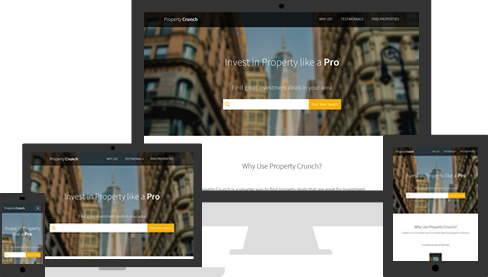
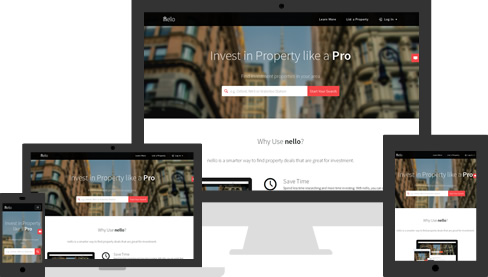
Updated 404 page. Rebranded to  "nello"

diff --git a/property-crunch-frontend/public/assets/css/style.css b/property-crunch-frontend/public/assets/css/style.css
@@ -2782,18 +2782,24 @@ footer.default-footer ul li:last-child {
   margin-bottom: 50px;
 }
 .fact-box blockquote {
-  margin-bottom: 30px;
+  margin-bottom: 40px;
+  text-align: left;
 }
 .fact-box .source-logo {
   width: 100%;
   margin-bottom: 10px;
 }
-@media (min-width: 768px) {
-  .fact-box {
-    margin-bottom: 50px;
+@media (min-width: 992px) and (max-width: 1199px) {
+  .fact-box.first-box blockquote {
+    margin-bottom: 66px;
   }
   .fact-box.second-box blockquote {
-    margin-bottom: 116px;
+    margin-bottom: 143px;
+  }
+}
+@media (min-width: 1200px) {
+  .fact-box.second-box blockquote {
+    margin-bottom: 91px;
   }
 }
 /*===================================================================
@@ -3552,6 +3558,9 @@ footer.default-footer ul li:last-child {
 /*===================================================================
   Pages > Property Details > Profit Calculator
 ====================================================================*/
+.profit-calculator.embedded {
+  background: #e9edeb;
+}
 .profit-calculator h4 {
   margin-bottom: 40px;
   font-weight: 600;
@@ -3712,11 +3721,8 @@ footer.default-footer ul li:last-child {
   Pages > 404 Page
 ====================================================================*/
 .error-page {
-  background: #f44647;
-  color: #fff;
-  height: 100%;
+  color: #191e1d;
   width: 100%;
-  position: fixed;
   text-align: center;
 }
 .error-page h1 {
@@ -3725,15 +3731,10 @@ footer.default-footer ul li:last-child {
   border-bottom: 1px solid #e9edeb;
   margin-bottom: 50px;
   padding-bottom: 40px;
+  color: #299ecb;
 }
 .error-page p {
   font-size: 24px;
-}
-.error-page a {
-  color: #fff;
-}
-.error-page a:hover {
-  color: #e9edeb;
 }
 @media (min-width: 480px) {
   .error-page h1 {

diff --git a/property-crunch-frontend/public/modules/static-pages/views/home.html b/property-crunch-frontend/public/modules/static-pages/views/home.html
@@ -53,7 +53,7 @@
                         </div>
                         <div class="media-body">
                             <h3 class="media-heading">Make the Right Offer</h3>
-                            <p>You can use our calculator to find out how much profit you will make from a purchase. It will also tell you the best offer price to present to the Estate agent (this is a premium feature).</p>
+                            <p>You can use our calculator to find out how much profit you will make from a purchase. It will also tell you the best offer price to present to the Estate agent.</p>
                         </div>
                     </article>
                 </div>
@@ -75,7 +75,7 @@
                     <div class="client-details">
                         <h3>Kate Poole</h3>
                         <h5>Property Investor</h5>
-                        <a href="javascript:void(0)">Cheshire</a>
+                        <h5>Cheshire</h5>
                     </div>
                 </div>
             </div>
@@ -88,7 +88,7 @@
                     <div class="client-details">
                         <h3>Manal Shaker</h3>
                         <h5>Estate Agent</h5>
-                        <a href="http://www.manoliahomes.co.uk/">Manolia Homes</a>
+                        <h5>Manolia Homes</h5>
                     </div>
                 </div>
             </div>

diff --git a/property-crunch-frontend/public/modules/static-pages/views/terms_of_use.html b/property-crunch-frontend/public/modules/static-pages/views/terms_of_use.html
@@ -56,7 +56,7 @@
         <p>
             If Property Crunch is unable to bill the credit card on file, notice will be sent to the email address on file and an additional billing attempt will be
             made at 3-days and 6-days from the first unsuccessful billing attempt. After the third unsuccessful billing attempt, the account will be cancelled, but you
-            will remain responsible for unpaid amounts owed to Property Crunch. If you are not satisfied with the Property Crunch service, please contact us. Property
+            will remain responsible for unpaid amounts owed to Property Crunch. If you are not satisfied with the Property Crunch service, please <a href="mailto:support@thenello.com">Contact Us</a>. Property
             Crunch subscription services can be cancelled at any time by emailing support@thenello.com. If the subscription is billed on a recurring basis, and you
             cancel it during a billing cycle, you will be billed the full amount due during that billing cycle.
         </p>
@@ -247,7 +247,7 @@
             Contact Us
         </h4>
         <p>
-            If you have any questions about these Terms, please <a href="mailto:support@propertycrunch.co">Contact Us</a>.
+            If you have any questions about these Terms, please <a href="mailto:support@thenello.com">Contact Us</a>.
         </p>
     </div>
 </section>

diff --git a/property-crunch-frontend/public/modules/static-pages/views/learn_more.html b/property-crunch-frontend/public/modules/static-pages/views/learn_more.html
@@ -31,7 +31,7 @@
         
         <div class="row">
             <div class="col-md-4">
-                <div class="fact-box">
+                <div class="fact-box first-box">
                     <blockquote>Analysis by Paragon shows every £1,000 invested in an average buy-to-let property in the final quarter of 1996 would have been worth £13,048 by the final quarter of 2013.</blockquote>
                     <div class="source-logo">
                         <img src="assets/images/third-party-logos/this-is-money-logo.jpg" alt="This is Money Logo">
@@ -49,7 +49,7 @@
                 </div>
             </div>
             <div class="col-md-4">
-                <div class="fact-box">
+                <div class="fact-box third-box">
                     <blockquote>About 78 per cent of landlords see their investment in buy-to-lets as a pension, according to a report by auctioneers and property consultants Allsop and market researchers BDRC Continental.</blockquote>
                     <div class="source-logo">
                         <img src="assets/images/third-party-logos/the-telegraph-logo.jpg" alt="The telegraph Logo">

diff --git a/property-crunch-frontend/public/modules/static-pages/views/privacy_policy.html b/property-crunch-frontend/public/modules/static-pages/views/privacy_policy.html
@@ -126,7 +126,7 @@
         </p>
         <p>
             We do not knowingly collect personally identifiable information from children under 13. If you are a parent or guardian and you are aware that your
-            Children has provided us with Personal Information, please contact us. If we discover that a Children under 13 has provided us with Personal Information,
+            Children has provided us with Personal Information, please <a href="mailto:support@thenello.com">Contact Us</a>. If we discover that a Children under 13 has provided us with Personal Information,
             we will delete such information from our servers.
         </p>
         <h4>
@@ -152,7 +152,7 @@
             Contact Us
         </h4>
         <p>
-            If you have any questions about this Privacy Policy, please <a href="mailto:support@propertycrunch.co">contact us.</a>
+            If you have any questions about this Privacy Policy, please <a href="mailto:support@thenello.com">Contact Us</a>.
         </p>
       
     </div>

diff --git a/property-crunch-frontend/public/assets/css/pages_404.less b/property-crunch-frontend/public/assets/css/pages_404.less
@@ -2,11 +2,11 @@
   Pages > 404 Page
 ====================================================================*/
 .error-page {    
-    background: @brand-red;
-    color: #fff; 
-    height: 100%;
+//    background: @brand-red;
+//    height: 100%;
+//    position: fixed;
+    color: @gray-darker; 
     width: 100%;
-    position: fixed;
     text-align: center;
     
     h1 {
@@ -15,19 +15,20 @@
         border-bottom: 1px solid @gray;
         margin-bottom: 50px;
         padding-bottom: 40px;
+        color: @brand-primary;
     }
     
     p {
         font-size: @font-size-h4;
     }
     
-    a {
-        color: #fff;
-        
-        &:hover {
-            color: @gray;
-        }
-    }
+//    a {
+//        color: #fff;
+//        
+//        &:hover {
+//            color: @gray;
+//        }
+//    }
     
 }
 

diff --git a/property-crunch-frontend/public/assets/css/pages_learn_more.less b/property-crunch-frontend/public/assets/css/pages_learn_more.less
@@ -23,7 +23,8 @@
     margin-bottom: 50px;
     
     blockquote {
-        margin-bottom: 30px;
+        margin-bottom: 40px;
+        text-align: left;
     }
     
     .source-logo {
@@ -33,14 +34,22 @@
     
 }
 
-@media (min-width: 768px) {	
+@media (min-width: 992px) and (max-width: 1199px) {	
     .fact-box {
-        margin-bottom: 50px;
+        &.first-box blockquote {
+            margin-bottom: 66px;
+        }
         
-        &.second-box {
-            blockquote {
-                margin-bottom: 116px;
-            }
+        &.second-box blockquote {
+            margin-bottom: 143px;
+        }
+    }
+}
+
+@media (min-width: 1200px) {	
+    .fact-box {
+        &.second-box blockquote {
+            margin-bottom: 91px;
         }
     }
 }

diff --git a/property-crunch-frontend/public/modules/shared/views/navigation-partial.html b/property-crunch-frontend/public/modules/shared/views/navigation-partial.html
@@ -19,6 +19,7 @@
         <ul class="nav navbar-nav">
             <li><a active-link="active" ng-href="/pages/learn_more">Learn More</a></li>
             <li><a active-link="active" ng-href="/pages/list_property">List a Property</a></li>
+            <li><a active-link="active" ng-href="http://thenello.com/blog">Blog</a></li>
             <li ng-hide="!navData.showLoginButton">
                 <a ng-class="{'active':dropOpenStatus}" href="" ng-click="toggleDropdown()">
                     <i class="icon-login"></i>

diff --git a/property-crunch-frontend/public/modules/shared/directives/rec-properties.html b/property-crunch-frontend/public/modules/shared/directives/rec-properties.html
@@ -1,5 +1,5 @@
 <div class="recommended-carousel">
-    <h5 ng-show="swipeAlert" class="swipe-notification visible-xs visible-sm">Swipe Right to View More</h5>
+    <h5 ng-show="swipeAlert" class="swipe-notification visible-xs visible-sm">Swipe Left to View More</h5>
     <div class="carousel-wrapper">
         <div class="owl-carousel">
             <div class="item" data-ng-repeat="property in recProperties.list">

diff --git a/property-crunch-frontend/public/modules/property-details/directives/to-sell-calculator.html b/property-crunch-frontend/public/modules/property-details/directives/to-sell-calculator.html
@@ -53,7 +53,7 @@
     </div>
     <div class="form-field-row">
         <h6 class="col-xs-6">Total Investment:</h6>
-        <h5 class="col-xs-6"><span>{{toSell.totalInvestment | customCurrency: "£"}}</span> per year</h5>
+        <h5 class="col-xs-6"><span>{{toSell.totalInvestment | customCurrency: "£"}}</span></h5>
     </div>
     <div class="form-field-row">
         <h6 class="col-xs-6">Profit/ (Loss):</h6>

diff --git a/property-crunch-frontend/public/modules/static-pages/views/404.html b/property-crunch-frontend/public/modules/static-pages/views/404.html
@@ -1,3 +1,8 @@
+<header>
+    <!-- nav template --> 
+    <ng-include src="'modules/shared/views/navigation-partial.html'"></ng-include>
+</header>
+
 <div class="error-page">
     <header class="main-content">
         <div class="container">
@@ -8,3 +13,6 @@
         </div>
     </header>
 </div>
+
+<!-- footer template -->
+<ng-include src="'modules/shared/views/footer.html'"></ng-include>

diff --git a/property-crunch-frontend/public/modules/shared/views/footer.html b/property-crunch-frontend/public/modules/shared/views/footer.html
@@ -4,7 +4,7 @@
     <ul class="footer-links">
       <li><a ng-href="/pages/privacy_policy">Privacy Policy</a></li>
       <li><a ng-href="/pages/terms_of_use">Terms of Service</a></li>
-      <li class="last"><a href="mailto:support@propertycrunch.co">Contact Us</a></li>
+      <li class="last"><a href="mailto:support@thenello.com">Contact Us</a></li>
     </ul>
   </div>
 </footer>
